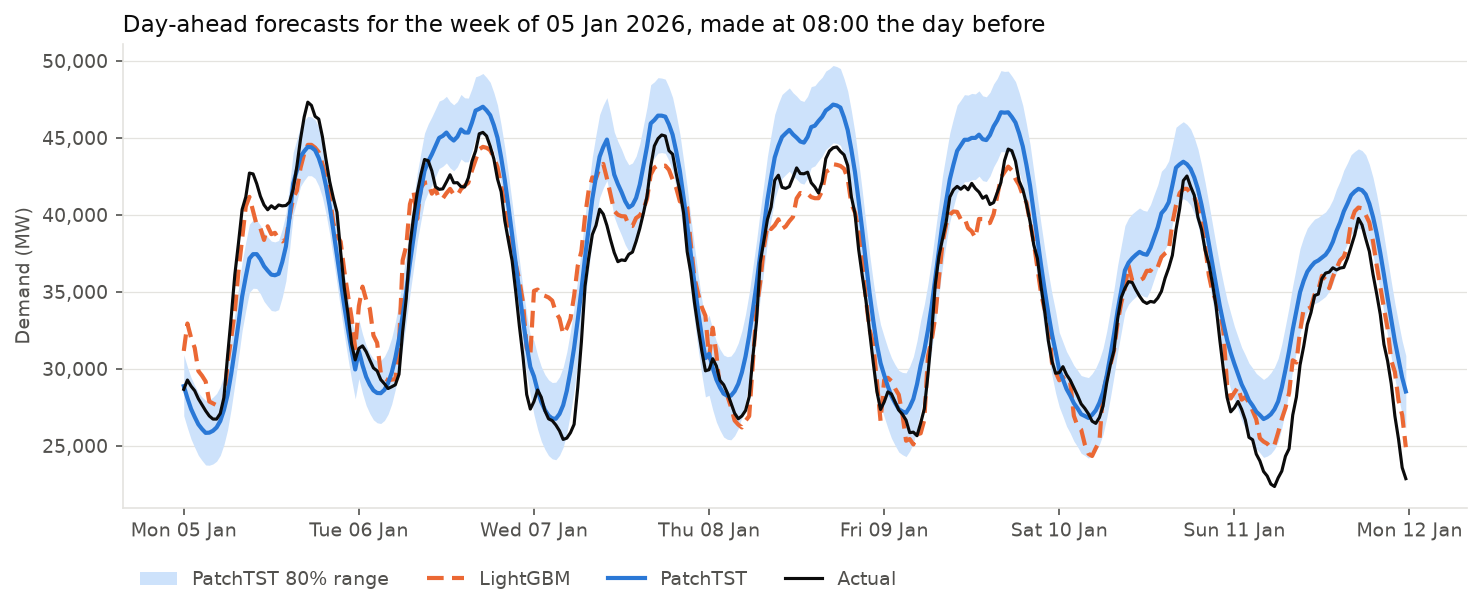
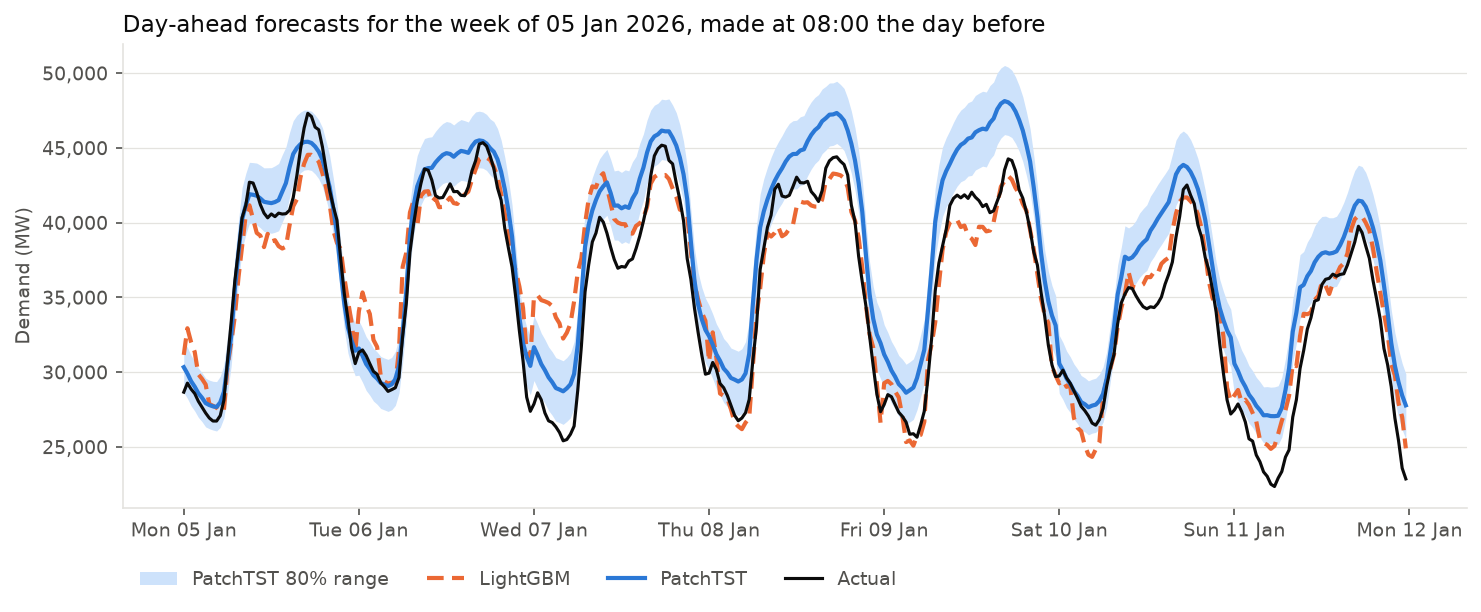
cross attention

Changed region(s): [[0.0311, 0.0931, 0.9629, 0.7761]]

diff --git a/src/patchtst.py b/src/patchtst.py
@@ -17,6 +17,7 @@ from forecast_windows import (
 )
 
 quantiles = (0.1, 0.5, 0.9)
+poolings = ("flatten", "mean", "attention")
 
 
 class RevIN(nn.Module):
@@ -38,26 +39,51 @@ class RevIN(nn.Module):
 
 
 class PatchTST(nn.Module):
-    def __init__(self, n_covariates, patch_len=24, stride=12, d_model=64, heads=4, layers=2, dropout=0.1, hidden=128):
+    """The transformer reads the past week as 27 overlapping patches. `pooling` decides how those 27 patch summaries
+    become forecasts for each of tomorrow's 48 half hours:
+    - "flatten": join them into one long vector and pass it through a large linear layer, as in the PatchTST paper
+    - "mean": average them into one summary of the week
+    - "attention": each forecast half hour builds a query from its time of day, weather and calendar, and uses
+      cross attention to pick the patches it needs, so every half hour gets its own summary of the week"""
+
+    def __init__(self, n_covariates, patch_len=24, stride=12, d_model=64, heads=4, layers=2, dropout=0.1, hidden=128,
+                 pooling="attention"):
         super().__init__()
-        self.patch_len, self.stride = patch_len, stride
+        if pooling not in poolings:
+            raise ValueError(f"pooling must be one of {poolings}, not {pooling!r}")
+        self.patch_len, self.stride, self.pooling = patch_len, stride, pooling
         n_patches = (history_steps - patch_len) // stride + 1
         self.revin = RevIN()
         self.embed = nn.Linear(patch_len, d_model)
         self.position = nn.Parameter(torch.randn(1, n_patches, d_model) * 0.02)
         layer = nn.TransformerEncoderLayer(d_model, heads, 4 * d_model, dropout, batch_first=True, norm_first=True)
         self.encoder = nn.TransformerEncoder(layer, layers, enable_nested_tensor=False)
-        self.summary = nn.Sequential(nn.Flatten(), nn.Dropout(dropout), nn.Linear(n_patches * d_model, hidden), nn.GELU())
+        if pooling == "flatten":
+            self.summary = nn.Sequential(nn.Flatten(), nn.Dropout(dropout), nn.Linear(n_patches * d_model, hidden), nn.GELU())
+        else:
+            self.summary = nn.Sequential(nn.Dropout(dropout), nn.Linear(d_model, hidden), nn.GELU())
         self.covariate = nn.Sequential(nn.Linear(n_covariates, hidden // 4), nn.GELU())
         self.step = nn.Parameter(torch.zeros(horizon, hidden // 4))
         self.head = nn.Sequential(nn.Linear(hidden + hidden // 4, hidden), nn.GELU(), nn.Linear(hidden, len(quantiles)))
+        if pooling == "attention":
+            self.norm = nn.LayerNorm(d_model)
+            self.query = nn.Linear(hidden // 4, d_model)
+            self.cross = nn.MultiheadAttention(d_model, heads, dropout=dropout, batch_first=True)
+        self.keep_attention, self.attention = False, None
 
     def forward(self, history, future):
         x, mean, std = self.revin.normalise(history)
         patches = x.unfold(1, self.patch_len, self.stride)
-        week = self.summary(self.encoder(self.embed(patches) + self.position))
+        encoded = self.encoder(self.embed(patches) + self.position)
         ahead = self.covariate(future) + self.step
-        out = self.head(torch.cat([week[:, None, :].expand(-1, horizon, -1), ahead], dim=-1))
+        if self.pooling == "attention":
+            encoded = self.norm(encoded)
+            attended, self.attention = self.cross(self.query(ahead), encoded, encoded, need_weights=self.keep_attention)
+            week = self.summary(attended)
+        else:
+            pooled = encoded if self.pooling == "flatten" else encoded.mean(dim=1)
+            week = self.summary(pooled)[:, None, :].expand(-1, horizon, -1)
+        out = self.head(torch.cat([week, ahead], dim=-1))
         median = out[..., 1]
         low = median - nn.functional.softplus(out[..., 0])
         high = median + nn.functional.softplus(out[..., 2])
@@ -70,9 +96,10 @@ def pinball_loss(predicted, actual, scale):
     return torch.maximum(q * error, (q - 1) * error).mean()
 
 
-defaults = {"patch_len": 24, "stride": 12, "d_model": 64, "heads": 4, "layers": 2, "dropout": 0.1, "hidden": 128, "learning_rate": 1e-3,
-                "weight_decay": 1e-2, "batch_size": 128, "max_epochs": 40, "patience": 6, "warmup": 0.05, "train_stride": 2, "seed": 42}
-architecture = ["patch_len", "stride", "d_model", "heads", "layers", "dropout", "hidden"]
+defaults = {"patch_len": 24, "stride": 12, "d_model": 64, "heads": 4, "layers": 2, "dropout": 0.1, "hidden": 128,
+            "pooling": "attention", "learning_rate": 1e-3, "weight_decay": 1e-2, "batch_size": 128, "max_epochs": 40,
+            "patience": 6, "warmup": 0.05, "train_stride": 2, "seed": 42}
+architecture = ["patch_len", "stride", "d_model", "heads", "layers", "dropout", "hidden", "pooling"]
 
 
 class PatchTSTForecaster:
@@ -158,7 +185,7 @@ class PatchTSTForecaster:
     @classmethod
     def load(cls, path):
         saved = torch.load(path)
-        model = cls(**saved["settings"])
+        model = cls(**{"pooling": "flatten", **saved["settings"]})
         model.cov_mean = np.array(saved["cov_mean"], dtype=np.float32)
         model.cov_std = np.array(saved["cov_std"], dtype=np.float32)
         model.best_epochs = saved["best_epochs"]

diff --git a/src/ablation.py b/src/ablation.py
@@ -1,0 +1,84 @@
+"""Train PatchTST once for each value of one setting, everything else unchanged, and compare them on the same
+calibration and test days. Each run is trained, early stopped and calibrated exactly as in train_patchtst.py. Results go to the transformer_ablation
+table (one row per setting and value) and to the MLflow experiment demand-patchtst-ablation."""
+import argparse
+import multiprocessing
+from concurrent.futures import ProcessPoolExecutor
+
+import pandas as pd
+
+from db import load_table, save_table
+from forecast_windows import day_windows
+from tracking import log_run
+from train_patchtst import patchtst, rows
+
+
+def dates():
+    """The calibration and test dates. Read in a separate process because the modules that hold them import LightGBM."""
+    from quantiles import calibration_start
+    from train import split_date, target
+
+    return calibration_start, split_date, target
+
+
+def parse(value):
+    for kind in (int, float):
+        try:
+            return kind(value)
+        except ValueError:
+            pass
+    return value
+
+
+def merge(old, new):
+    """Replace the rows for the setting just tested and keep the rows for other settings."""
+    if old is None:
+        return new
+    old = old[old["setting"] != new["setting"].iloc[0]]
+    return pd.concat([old, new], ignore_index=True)
+
+
+if __name__ == "__main__":
+    parser = argparse.ArgumentParser(description=__doc__, formatter_class=argparse.RawDescriptionHelpFormatter)
+    parser.add_argument("setting", help="the PatchTST setting to vary, e.g. pooling")
+    parser.add_argument("values", nargs="+", help="the values to try")
+    args = parser.parse_args()
+
+    from patchtst import defaults
+
+    if args.setting not in defaults:
+        raise SystemExit(f"unknown setting {args.setting!r}, choose from {sorted(defaults)}")
+    with ProcessPoolExecutor(max_workers=1, mp_context=multiprocessing.get_context("spawn")) as pool:
+        calibration_start, split_date, target = pool.submit(dates).result()
+
+    df = load_table("features")
+    calib_days = day_windows(df.index, calibration_start, split_date)
+    test_days = day_windows(df.index, split_date)
+    actual_calib = df[target].to_numpy()[rows(calib_days)]
+    actual_test = df[target].to_numpy()[rows(test_days)]
+
+    results = []
+    for value in map(parse, args.values):
+        print(f"\n{args.setting} = {value}")
+        settings = {args.setting: value}
+        result, model, adjustment, losses, _, _ = patchtst(
+            df, calib_days, test_days, actual_calib, actual_test, calibration_start, split_date, settings)
+        row = {"setting": args.setting, "value": str(value),
+               "parameters": sum(p.numel() for p in model.net.parameters()),
+               "best_epoch": model.best_epochs, "calibration_loss": min(losses), **result}
+        results.append(row)
+        log_run(experiment="demand-patchtst-ablation", params={**model.settings, "best_epochs": model.best_epochs},
+                metrics={k: v for k, v in row.items() if k not in ("setting", "value")}, files=[])
+
+    table = pd.DataFrame(results)
+    print(f"\n{args.setting:>12} {'parameters':>11} {'epoch':>6} {'calib loss':>11} {'MAPE':>7} {'in range':>9} {'width':>8}")
+    for _, r in table.iterrows():
+        print(f"{r['value']:>12} {r['parameters']:>11,} {r['best_epoch']:>6} {r['calibration_loss']:>11.4f} "
+              f"{r['mape']:>6.2f}% {r['coverage']:>8.1f}% {r['width']:>5.0f} MW")
+
+    try:
+        old = load_table("transformer_ablation").reset_index(drop=True)
+    except ValueError:
+        old = None
+    save_table(merge(old, table), "transformer_ablation")
+    print("saved transformer_ablation")

diff --git a/tests/test_patchtst.py b/tests/test_patchtst.py
@@ -78,6 +78,47 @@ def test_quantiles_never_cross():
     assert out.shape == (8, horizon, 3)
     assert (out[..., 0] <= out[..., 1]).all() and (out[..., 1] <= out[..., 2]).all()
 
+@pytest.mark.parametrize("pooling", ["flatten", "mean", "attention"])
+def test_every_pooling_gives_forecasts_whose_quantiles_never_cross(pooling):
+    torch.manual_seed(0)
+    net = PatchTST(n_covariates=11, pooling=pooling)
+    out = net(torch.randn(8, history_steps) * 3000 + 30000, torch.randn(8, horizon, 11))
+    assert out.shape == (8, horizon, 3)
+    assert (out[..., 0] <= out[..., 1]).all() and (out[..., 1] <= out[..., 2]).all()
+
+
+def test_attention_pooling_needs_far_fewer_parameters_than_flatten():
+    def count(net):
+        return sum(p.numel() for p in net.parameters())
+
+    assert count(PatchTST(11, pooling="attention")) < count(PatchTST(11, pooling="flatten")) / 2
+
+
+def test_each_forecast_half_hour_spreads_its_attention_over_the_27_patches():
+    net = PatchTST(11).eval()
+    net.keep_attention = True
+    net(torch.randn(2, history_steps) * 3000 + 30000, torch.randn(2, horizon, 11))
+    assert net.attention.shape == (2, horizon, 27)
+    assert torch.allclose(net.attention.sum(dim=-1), torch.ones(2, horizon))
+
+
+def test_unknown_pooling_is_rejected():
+    with pytest.raises(ValueError):
+        PatchTST(11, pooling="max")
+
+
+def test_models_saved_before_pooling_existed_load_with_the_flatten_head(tmp_path):
+    df = make_features(days=30)
+    test = day_windows(df.index)[-2:]
+    model = PatchTSTForecaster(max_epochs=1, d_model=16, hidden=32, pooling="flatten").fit(df, windows(df.index, stride=16))
+    model.save(tmp_path / "old.pt")
+    saved = torch.load(tmp_path / "old.pt")
+    del saved["settings"]["pooling"]
+    torch.save(saved, tmp_path / "old.pt")
+    loaded, _ = PatchTSTForecaster.load(tmp_path / "old.pt")
+    assert loaded.settings["pooling"] == "flatten"
+    assert np.allclose(model.predict(df, test), loaded.predict(df, test))
+
 
 def test_learns_the_daily_shape_after_a_short_training_run():
     df = make_features(days=150)

diff --git a/dashboard/transformer.py b/dashboard/transformer.py
@@ -127,7 +127,7 @@ influence = load_optional("transformer_influence")
 if influence is not None:
     st.subheader("What the transformer looks at")
     st.altair_chart(influence_chart(influence), width="stretch")
-    st.caption("How many MW each of tomorrow's forecasts moves per MW change in each past half-hour, averaged over every test day (the gradient of the forecast). The stripes are vertical: each past half-hour affects every forecast about equally, so the transformer uses the past week mainly to set tomorrow's level, with the most recent hours mattering most, rather than matching times of day as LightGBM's lag features do.")
+    st.caption("How many MW each of tomorrow's forecasts moves per MW change in each past half-hour, averaged over every test day (the gradient of the forecast). The influence peaks at the same times every day across the week and is stronger for daytime forecasts, so the transformer matches times of day, as LightGBM's same time yesterday and last week features do. The most recent full day matters most.")
 
 training = load_optional("transformer_training")
 if training is not None:

diff --git a/tests/test_ablation.py b/tests/test_ablation.py
@@ -1,0 +1,15 @@
+import pandas as pd
+
+from ablation import merge, parse
+
+
+def test_values_from_the_command_line_become_numbers_where_they_can():
+    assert parse("24") == 24 and parse("0.2") == 0.2 and parse("attention") == "attention"
+
+
+def test_a_new_run_replaces_only_the_rows_for_its_own_setting():
+    old = pd.DataFrame({"setting": ["pooling", "pooling", "patch_len"], "value": ["flatten", "mean", "24"], "mape": [6.0, 5.8, 5.9]})
+    new = pd.DataFrame({"setting": ["pooling"], "value": ["attention"], "mape": [5.5]})
+    table = merge(old, new)
+    assert sorted(table["value"]) == ["24", "attention"]
+    assert merge(None, new).equals(new)

diff --git a/README.md b/README.md
@@ -12,7 +12,7 @@ An end to end machine learning pipeline that forecasts Great Britain's half hour
 - **Price: LightGBM model with £21.50/MWh MAE, 15% lower than the best naive baseline, using wind, solar and net demand to forecast cheap and expensive periods.**
 - **Spikes: LightGBM classifier that ranks spike risk 2.5x better than persistence (average precision 0.43 vs 0.17, ROC AUC 0.90).**
 - **Backtest: a simulated 1 MW / 2 MWh battery scheduled from the price forecast earns 77% of the perfect foresight profit, against 52% for a baseline forecast and 74% for a simple average of the last 7 days prices.**
-- **Transformer: a PatchTST transformer implemented in PyTorch (5.98% MAPE) beats Amazon's pretrained Chronos model (7.29%) but not LightGBM (5.08%) on the same days, and attribution shows why.**
+- **Transformer: a PatchTST transformer implemented in PyTorch (5.61% MAPE) beats Amazon's pretrained Chronos model (7.29%) but not LightGBM (5.08%) on the same days. Blended 25/75 with LightGBM it beats both (4.97%), and attribution shows why the gain is small.**
 
 **Stack:** Python, pandas, LightGBM, PyTorch, FastAPI, Docker, pytest, SciPy, Ruff, GitHub Actions, PostgreSQL, SQLAlchemy, Docker Compose, MLFlow, Streamlit, Google Cloud (Cloud Run, Artifact Registry, Cloud Storage, Secret Manager, Workload Identity Federation), Neon, Anthropic Claude API.
 
@@ -56,7 +56,10 @@ flowchart TD
     revin --> patches["27 overlapping 12-hour patches"]
     patches --> encoder["Transformer encoder<br/>2 layers, 4 heads"]
     inputs["Tomorrow's weather and calendar<br/>48 half hours"] --> covariates["Covariate encoder"]
-    encoder --> head["Quantile head<br/>low ≤ median ≤ high"]
+    covariates --> query["One query per forecast half hour"]
+    encoder --> cross["Cross attention: each half hour picks the patches it needs"]
+    query --> cross
+    cross --> head["Quantile head<br/>low ≤ median ≤ high"]
     covariates --> head
     head --> undo["Undo RevIN: back to MW"]
     undo --> out["Tomorrow: 48 half hours × 10%, 50%, 90%"]
@@ -68,20 +71,28 @@ Every model sees the same information (demand up to 08:00 the day before, plus t
 |---|---|---|---|---|---|
 | Naive baseline (same time last week) | 2,130 MW | 2,875 MW | 8.39% | — | — |
 | Chronos-Bolt small (pretrained, zero shot) | 1,839 MW | 2,437 MW | 7.29% | 78.6% | 5,614 MW |
-| PatchTST (trained here) | 1,475 MW | 1,889 MW | 5.98% | 78.7% | 4,656 MW |
+| PatchTST (trained here) | 1,368 MW | 1,793 MW | 5.61% | 77.7% | 4,135 MW |
 | **LightGBM** | **1,246 MW** | **1,647 MW** | **5.08%** | **80.2%** | **4,035 MW** |
+| Blend: 75% LightGBM + 25% PatchTST | — | — | 4.97% | 79.2% | 3,796 MW |
 
 ![PatchTST and LightGBM forecasts for the week of 5 January 2026](docs/patchtst_forecast_week.png)
 
 ![Which past half hours each of tomorrow's forecasts depends on](docs/patchtst_influence.png)
 
-- **The transformer beats the pretrained model by 18% but not LightGBM.** LightGBM stays in production. This matches what forecasting competitions such as M5 found: gradient boosting with good features is hard to beat on a few years of data.
-- **Attribution explains the gap.** The heatmap shows how much each of tomorrow's forecasts moves when each past half-hour changes (the gradient of the forecast, averaged over every test day). The stripes are vertical: each past half-hour affects every forecast about equally, so the transformer uses the past week mainly to set tomorrow's level, with the most recent hours mattering most, rather than matching times of day. LightGBM gets that link directly through its same time yesterday and same time last week features.
-- **The two models make different mistakes.** In the week above, PatchTST runs high on the midweek peaks while LightGBM has night-time errors on Tuesday and Wednesday, so a blend of the two beats both.
-- **It overfits quickly.** Of its 347,525 parameters, 221,312 (64%) are in the single layer that flattens the 27 patches into one summary, and the calibration loss stops improving after a few epochs ([learning curve](docs/patchtst_learning_curve.png)).
-- **Conformal calibration works for every model.** All three land within 1.5 points of the 80% target, with very different raw models.
+- **The transformer beats the pretrained model by 23% but not LightGBM.** LightGBM stays in production. This matches what forecasting competitions such as M5 found: gradient boosting with good features is hard to beat on a few years of data.
+- **Letting each forecast half-hour choose what to look at helped most.** The papers head flattens the 27 patch summaries into one long vector, through a single layer holding 221,312 of the model's 347,525 parameters. Three heads were compared on the same days with `src/ablation.py`:
 
-- **Blending helps even though the transformer loses alone.** A weighted average of the two models forecasts, with the weight chosen on the calibration year, gave 4.98% MAPE against 5.08% for LightGBM, with 80% ranges 4% narrower (79.2% coverage). The chosen weight, 20% PatchTST, sits at the bottom of the test year curve (best between 20% and 25%), so the choice transferred well to unseen data. The models errors only partly overlap, so even the weaker one adds information.
+  | Head | Parameters | MAPE | 80% interval coverage | Average width |
+  |---|---|---|---|---|
+  | Flatten (paper) | 347,525 | 5.98% | 78.7% | 4,656 MW |
+  | Mean of the patches | 134,533 | 5.88% | 79.4% | 4,538 MW |
+  | **Cross attention** | **153,413** | **5.61%** | **77.7%** | **4,135 MW** |
+
+  Averaging helps a little. Cross attention, where each of tomorrow's half hours builds a query from its time of day, weather and calendar and picks the patches it needs, cut the error by 6% and the interval width by 11% with 56% fewer parameters.
+
+- **Attribution shows what changed.** The heatmap shows how much each of tomorrow's forecasts moves when each past half hour changes (the gradient of the forecast, averaged over every test day). With the flatten head, the stripes were vertical: every past half hour affected every forecast about equally, so the past week only set tomorrow's level. With cross attention, the influence peaks at the same times every day across the week and is stronger for daytime forecasts than overnight ones, so the transformer has learned to match times of day, as LightGBM does with its same time yesterday and same time last week features. The most recent full day matters most.
+- **Blending still helps, but less than the transformer's own gain suggests.** 75% LightGBM and 25% PatchTST, with the weight chosen on the calibration year, gives 4.97% MAPE against 5.08% for LightGBM, with 80% intervals 6% narrower at 79.2% coverage. With the weaker flatten head the blend scored 4.98%: as PatchTST learned to match times of day, its errors became more like LightGBM's, so it improved alone more than it adds to the blend.
+- **Training is noisy.** The calibration loss jumps between epochs and early stopping picks epoch 8 with every head ([learning curve](docs/patchtst_learning_curve.png)), so tuning the learning rate and dropout is the next step.
 
 ### Price forecast
 
@@ -200,6 +211,8 @@ Set `ANTHROPIC_API_KEY` to also write the daily Claude briefing. Without it, `li
 pip install -r requirements-research.txt
 python src/train_patchtst.py   # train PatchTST and compare it with LightGBM and Chronos on the same days
 python src/plot_patchtst.py    # draw the figures in docs/
+python src/ensemble.py         # blend LightGBM and PatchTST, choosing the weight on the calibration year
+python src/ablation.py pooling flatten mean attention   # compare settings, here the three heads
 ```
 
 Each training script logs its settings, results and model to MLflow. Open `http://localhost:5001` to browse and compare runs, and to see model versions.
@@ -299,6 +312,7 @@ flowchart LR
 | PatchTST | `src/patchtst.py`, `src/forecast_windows.py` | The transformer (RevIN, patching, encoder, quantile head) and its training loop, and the forecast windows every model is scored on |
 | Transformer comparison | `src/train_patchtst.py` | Trains PatchTST with early stopping, calibrates it, and compares it with LightGBM and Chronos on the same test days |
 | Transformer figures | `src/plot_patchtst.py` | Draws a forecast week, the learning curve and the attribution heatmap into `docs/` |
+| Ensemble and ablations | `src/ensemble.py`, `src/ablation.py` | Blends LightGBM and PatchTST with the weight chosen on the calibration year, and retrains PatchTST once per value of a setting to compare them |
 | Retrain | `src/retrain.py` | Checks a newly trained model against the baseline on the latest 8 weeks, then retrains the demand and interval models on all data and recalibrates the intervals |
 | Price features | `src/price_features.py` | Adds wind, solar, net demand and price lag features |
 | Price model | `src/train_price.py` | Selects features on a validation year, trains LightGBM and compares it with two baselines |
@@ -324,7 +338,7 @@ flowchart LR
 - **Weather:** Hourly temperature, wind speed and shortwave radiation for London from the Open Meteo historical forecast API, interpolated to half hourly. These are archived weather forecasts rather than measured weather, so the model trains on the same kind of input it gets live, where the daily job uses the Open Meteo forecast API. Training on measured weather and serving on forecasts would make the model rely on weather inputs more than live forecasts can support.
 - **Prices:** Market Index Price (APX/EPEX) from the Elexon BMRS API. Six missing half hours and 34 half hours with zero traded volume were filled by interpolation.
 - **Wind and solar generation:** Actual onshore wind, offshore wind and solar generation from the Elexon BMRS API. 4,383 republished duplicate rows were removed (keeping the latest version), 863 missing half-hours (longest gap 7 hours) were filled by interpolation, and 15 small negative values were set to zero.
-- **Storage:** Raw downloads are kept as CSV files, untouched. Everything from cleaning onwards is stored in PostgreSQL tables: `dataset`, `market`, `features` and `price_features`, plus `monitoring_daily` and `monitoring_drift` for the replay, `live_forecasts`, `live_briefing` and `monitoring_live` for live forecasts, `backtest_daily`, `price_forecasts`, `transformer_forecasts`, `transformer_training` and `transformer_influence` for the research pages.
+- **Storage:** Raw downloads are kept as CSV files, untouched. Everything from cleaning onwards is stored in PostgreSQL tables: `dataset`, `market`, `features` and `price_features`, plus `monitoring_daily` and `monitoring_drift` for the replay, `live_forecasts`, `live_briefing` and `monitoring_live` for live forecasts, `backtest_daily`, `price_forecasts`, `transformer_forecasts`, `transformer_training`, `transformer_influence`, `ensemble_weights` and `transformer_ablation` for the research pages.
 
 Validation found two days each missing one settlement period (2023-07-17 period 45 and 2023-12-29 period 8), which were filled by time interpolation.
 
